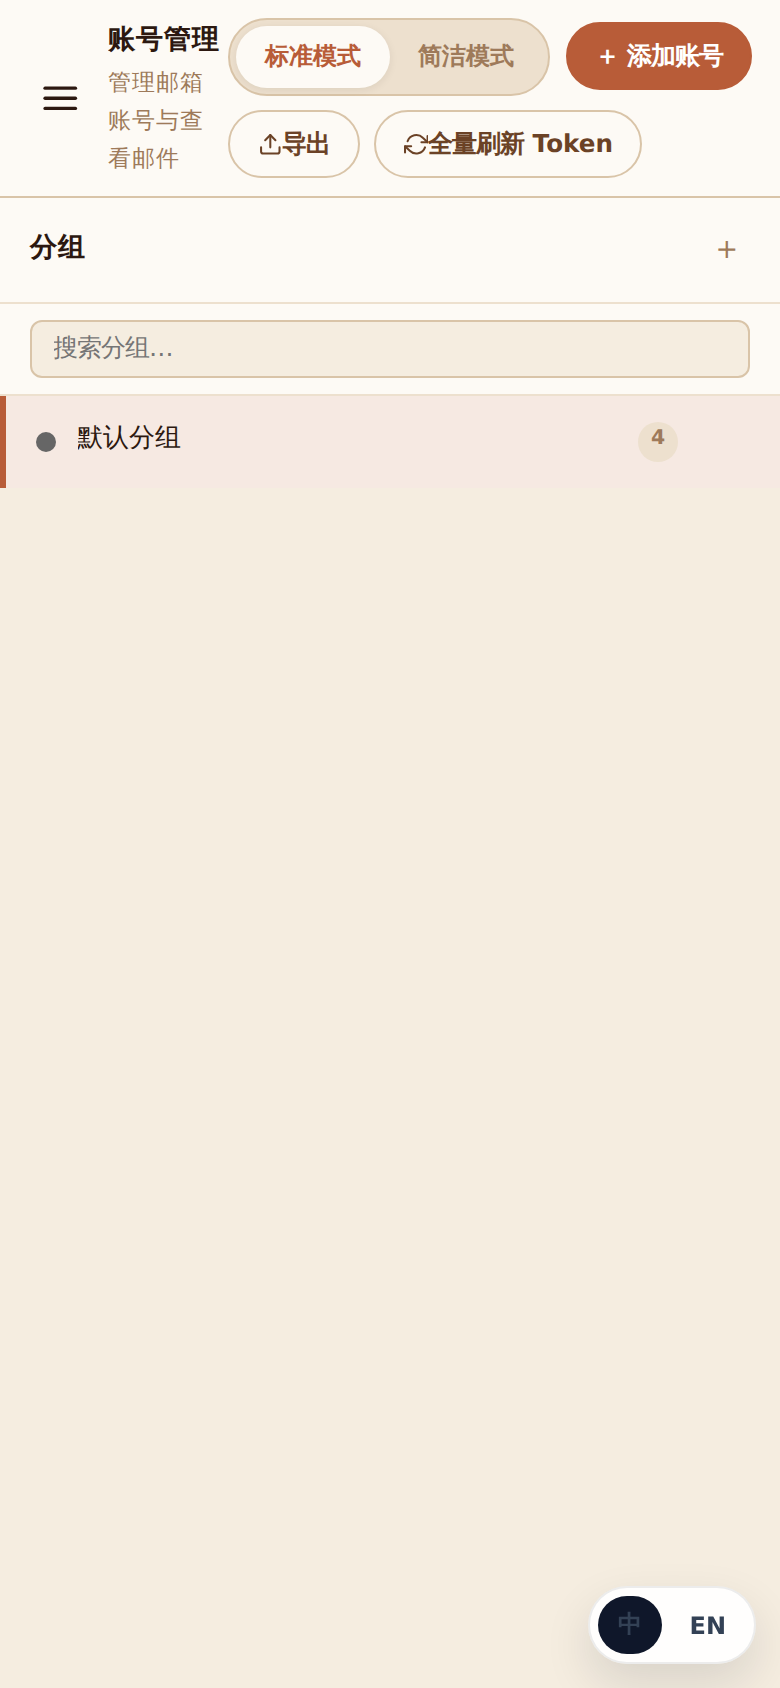
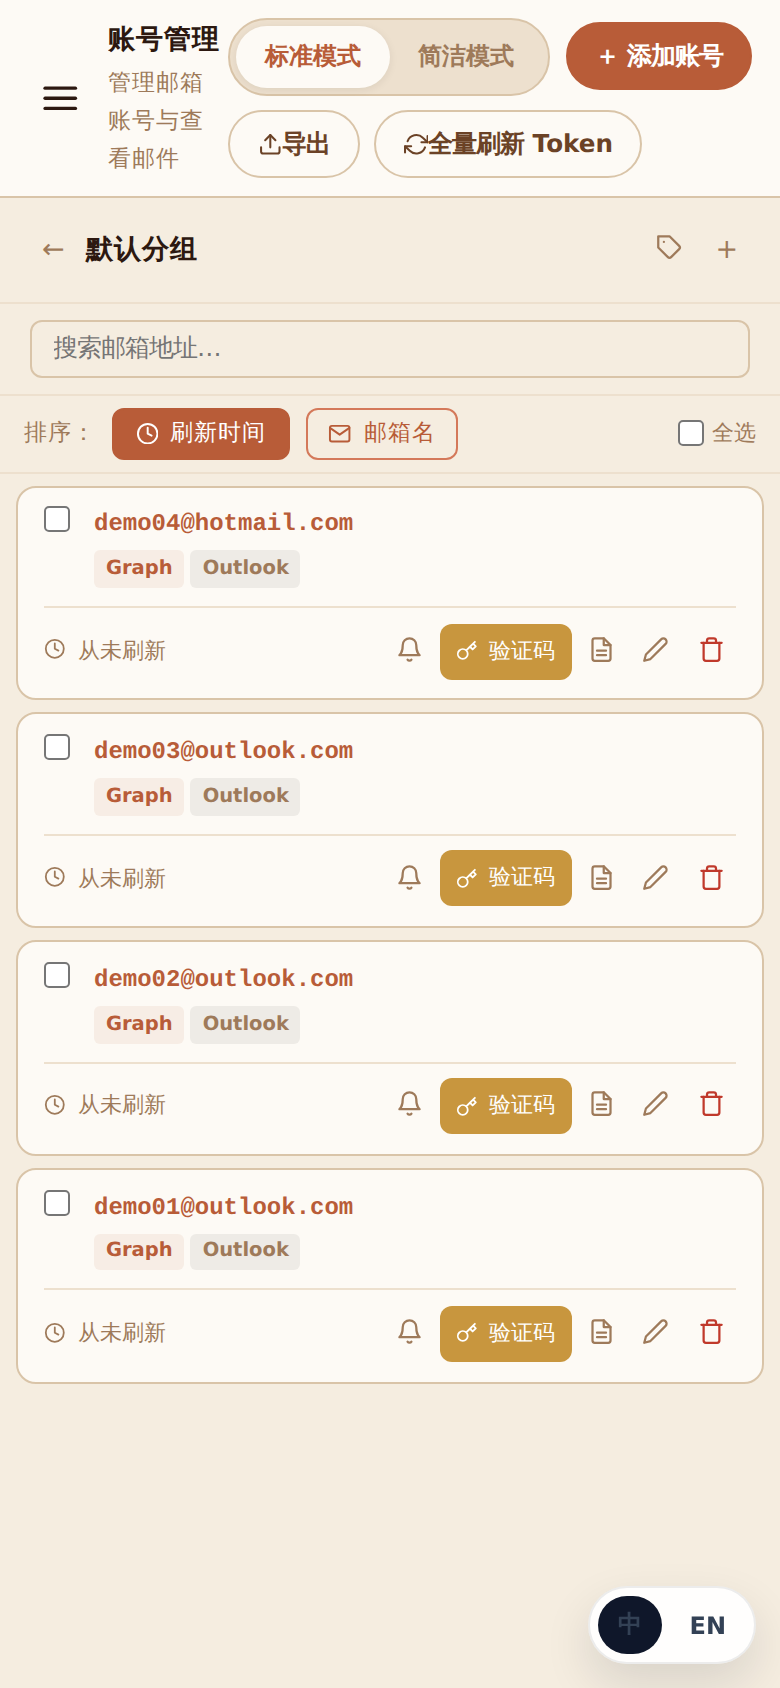
docs: 手机端账号管理预览图改为分组内邮箱账号列表视图

diff --git a/README.en.md b/README.en.md
@@ -9,14 +9,14 @@ A mailbox manager and verification-code extractor built for registration workflo
 
 All screenshots were taken against a demo environment with fake data — no real account information is included.
 
-| Login | Dashboard |
-| --- | --- |
-| ![Login](img/preview-login.png) | ![Dashboard](img/preview-dashboard.png) |
-| **Accounts (PC)** | **Activation Codes** |
-| ![Accounts](img/preview-mailbox.png) | ![Activation Codes](img/preview-activation.png) |
-| **User Management** | **Tablet · Accounts (834px)** |
-| ![User Management](img/preview-users.png) | ![Tablet · Accounts](img/preview-tablet-mailbox.png) |
-| **Mobile · Dashboard (390px)** | **Mobile · Accounts (390px)** |
+| Login                                                   | Dashboard                                            |
+| ------------------------------------------------------- | ---------------------------------------------------- |
+| ![Login](img/preview-login.png)                         | ![Dashboard](img/preview-dashboard.png)              |
+| **Accounts (PC)**                                       | **Activation Codes**                                 |
+| ![Accounts](img/preview-mailbox.png)                    | ![Activation Codes](img/preview-activation.png)      |
+| **User Management**                                     | **Tablet · Accounts (834px)**                        |
+| ![User Management](img/preview-users.png)               | ![Tablet · Accounts](img/preview-tablet-mailbox.png) |
+| **Mobile · Dashboard (390px)**                          | **Mobile · Accounts (390px)**                        |
 | ![Mobile · Dashboard](img/preview-mobile-dashboard.png) | ![Mobile · Accounts](img/preview-mobile-mailbox.png) |
 
 Responsive layout across desktop / tablet / mobile — on small screens the UI switches to a drill-down navigation flow.
@@ -25,12 +25,12 @@ Responsive layout across desktop / tablet / mobile — on small screens the UI s
 
 ## Relationship to Upstream
 
-| | Upstream | This Fork |
-| --- | --- | --- |
-| Login | Single password, single admin | Multi-user accounts (admin / member) |
-| Mailbox ownership | All owned by the admin | Mailboxes can be assigned to users; data isolated per user |
-| Mailbox distribution | — | Activation-code redemption / manual assignment by admin |
-| One-click update (Watchtower) | Supported | **Removed** |
+|                               | Upstream                      | This Fork                                                  |
+| ----------------------------- | ----------------------------- | ---------------------------------------------------------- |
+| Login                         | Single password, single admin | Multi-user accounts (admin / member)                       |
+| Mailbox ownership             | All owned by the admin        | Mailboxes can be assigned to users; data isolated per user |
+| Mailbox distribution          | —                             | Activation-code redemption / manual assignment by admin    |
+| One-click update (Watchtower) | Supported                     | **Removed**                                                |
 
 All other core capabilities are unchanged from upstream.
 
@@ -124,17 +124,17 @@ pytest tests/
 
 ## Common Environment Variables
 
-| Variable | Description |
-| --- | --- |
-| `SECRET_KEY` | Required; session security and sensitive-data encryption, must stay stable |
-| `LOGIN_PASSWORD` | Initial password; used to create the admin account on first start, then hashed in DB |
-| `DATABASE_PATH` | SQLite path, default `data/outlook_accounts.db` |
-| `PORT` / `HOST` | Web server bind address |
-| `SCHEDULER_AUTOSTART` | Whether background scheduler jobs start automatically |
-| `GUNICORN_WORKERS` / `GUNICORN_THREADS` / `GUNICORN_TIMEOUT` | Gunicorn concurrency settings |
-| `OAUTH_TOOL_ENABLED` | Enable the OAuth token tool, default `true` |
-| `OAUTH_CLIENT_ID` / `OAUTH_REDIRECT_URI` | Outlook OAuth app configuration |
-| `PROXY_FIX_ENABLED` / `TRUSTED_PROXIES` | ProxyFix middleware and trusted proxy list behind reverse proxies |
+| Variable                                                     | Description                                                                          |
+| ------------------------------------------------------------ | ------------------------------------------------------------------------------------ |
+| `SECRET_KEY`                                                 | Required; session security and sensitive-data encryption, must stay stable           |
+| `LOGIN_PASSWORD`                                             | Initial password; used to create the admin account on first start, then hashed in DB |
+| `DATABASE_PATH`                                              | SQLite path, default `data/outlook_accounts.db`                                      |
+| `PORT` / `HOST`                                              | Web server bind address                                                              |
+| `SCHEDULER_AUTOSTART`                                        | Whether background scheduler jobs start automatically                                |
+| `GUNICORN_WORKERS` / `GUNICORN_THREADS` / `GUNICORN_TIMEOUT` | Gunicorn concurrency settings                                                        |
+| `OAUTH_TOOL_ENABLED`                                         | Enable the OAuth token tool, default `true`                                          |
+| `OAUTH_CLIENT_ID` / `OAUTH_REDIRECT_URI`                     | Outlook OAuth app configuration                                                      |
+| `PROXY_FIX_ENABLED` / `TRUSTED_PROXIES`                      | ProxyFix middleware and trusted proxy list behind reverse proxies                    |
 
 ## External API and Mail Pool Integration
 

diff --git a/README.md b/README.md
@@ -9,14 +9,14 @@
 
 以下截图均基于演示环境（假数据）拍摄，不含任何真实账号信息。
 
-| 登录 | 数据概览 |
-| --- | --- |
-| ![登录](img/preview-login.png) | ![数据概览](img/preview-dashboard.png) |
-| **账号管理（PC）** | **激活码分发** |
-| ![账号管理](img/preview-mailbox.png) | ![激活码](img/preview-activation.png) |
-| **用户管理** | **平板 · 账号管理（834px）** |
-| ![用户管理](img/preview-users.png) | ![平板·账号管理](img/preview-tablet-mailbox.png) |
-| **手机 · 数据概览（390px）** | **手机 · 账号管理（390px）** |
+| 登录                                               | 数据概览                                         |
+| -------------------------------------------------- | ------------------------------------------------ |
+| ![登录](img/preview-login.png)                     | ![数据概览](img/preview-dashboard.png)           |
+| **账号管理（PC）**                                 | **激活码分发**                                   |
+| ![账号管理](img/preview-mailbox.png)               | ![激活码](img/preview-activation.png)            |
+| **用户管理**                                       | **平板 · 账号管理（834px）**                     |
+| ![用户管理](img/preview-users.png)                 | ![平板·账号管理](img/preview-tablet-mailbox.png) |
+| **手机 · 数据概览（390px）**                       | **手机 · 账号管理（390px）**                     |
 | ![手机·数据概览](img/preview-mobile-dashboard.png) | ![手机·账号管理](img/preview-mobile-mailbox.png) |
 
 桌面 / 平板 / 手机三端自适应布局，移动端自动切换为下钻式逐层导航。
@@ -25,12 +25,12 @@
 
 ## 与原版的关系
 
-| | 原版 | 本 Fork |
-| --- | --- | --- |
-| 登录 | 单密码，单管理员 | 多用户账号体系（admin / member） |
-| 邮箱归属 | 全部属于管理员 | 邮箱可分配给用户，数据按用户隔离 |
-| 邮箱分发 | — | 激活码兑换 / 管理员手动分配 |
-| 一键更新（Watchtower） | 支持 | **已移除** |
+|                        | 原版             | 本 Fork                          |
+| ---------------------- | ---------------- | -------------------------------- |
+| 登录                   | 单密码，单管理员 | 多用户账号体系（admin / member） |
+| 邮箱归属               | 全部属于管理员   | 邮箱可分配给用户，数据按用户隔离 |
+| 邮箱分发               | —                | 激活码兑换 / 管理员手动分配      |
+| 一键更新（Watchtower） | 支持             | **已移除**                       |
 
 其余核心能力与原版保持一致。
 
@@ -124,17 +124,17 @@ pytest tests/
 
 ## 常用环境变量
 
-| 变量 | 说明 |
-| --- | --- |
-| `SECRET_KEY` | 必填，会话安全与敏感数据加密，必须稳定不变 |
-| `LOGIN_PASSWORD` | 初始登录密码；首次启动后创建 admin 使用，之后哈希存库 |
-| `DATABASE_PATH` | SQLite 路径，默认 `data/outlook_accounts.db` |
-| `PORT` / `HOST` | Web 服务监听地址 |
-| `SCHEDULER_AUTOSTART` | 后台调度任务是否自动启动 |
-| `GUNICORN_WORKERS` / `GUNICORN_THREADS` / `GUNICORN_TIMEOUT` | Gunicorn 并发配置 |
-| `OAUTH_TOOL_ENABLED` | 是否启用 OAuth Token 工具，默认 `true` |
-| `OAUTH_CLIENT_ID` / `OAUTH_REDIRECT_URI` | Outlook OAuth 应用配置 |
-| `PROXY_FIX_ENABLED` / `TRUSTED_PROXIES` | 反向代理场景下启用 ProxyFix 与可信代理列表 |
+| 变量                                                         | 说明                                                  |
+| ------------------------------------------------------------ | ----------------------------------------------------- |
+| `SECRET_KEY`                                                 | 必填，会话安全与敏感数据加密，必须稳定不变            |
+| `LOGIN_PASSWORD`                                             | 初始登录密码；首次启动后创建 admin 使用，之后哈希存库 |
+| `DATABASE_PATH`                                              | SQLite 路径，默认 `data/outlook_accounts.db`          |
+| `PORT` / `HOST`                                              | Web 服务监听地址                                      |
+| `SCHEDULER_AUTOSTART`                                        | 后台调度任务是否自动启动                              |
+| `GUNICORN_WORKERS` / `GUNICORN_THREADS` / `GUNICORN_TIMEOUT` | Gunicorn 并发配置                                     |
+| `OAUTH_TOOL_ENABLED`                                         | 是否启用 OAuth Token 工具，默认 `true`                |
+| `OAUTH_CLIENT_ID` / `OAUTH_REDIRECT_URI`                     | Outlook OAuth 应用配置                                |
+| `PROXY_FIX_ENABLED` / `TRUSTED_PROXIES`                      | 反向代理场景下启用 ProxyFix 与可信代理列表            |
 
 ## 外部 API 与邮箱池集成
 
